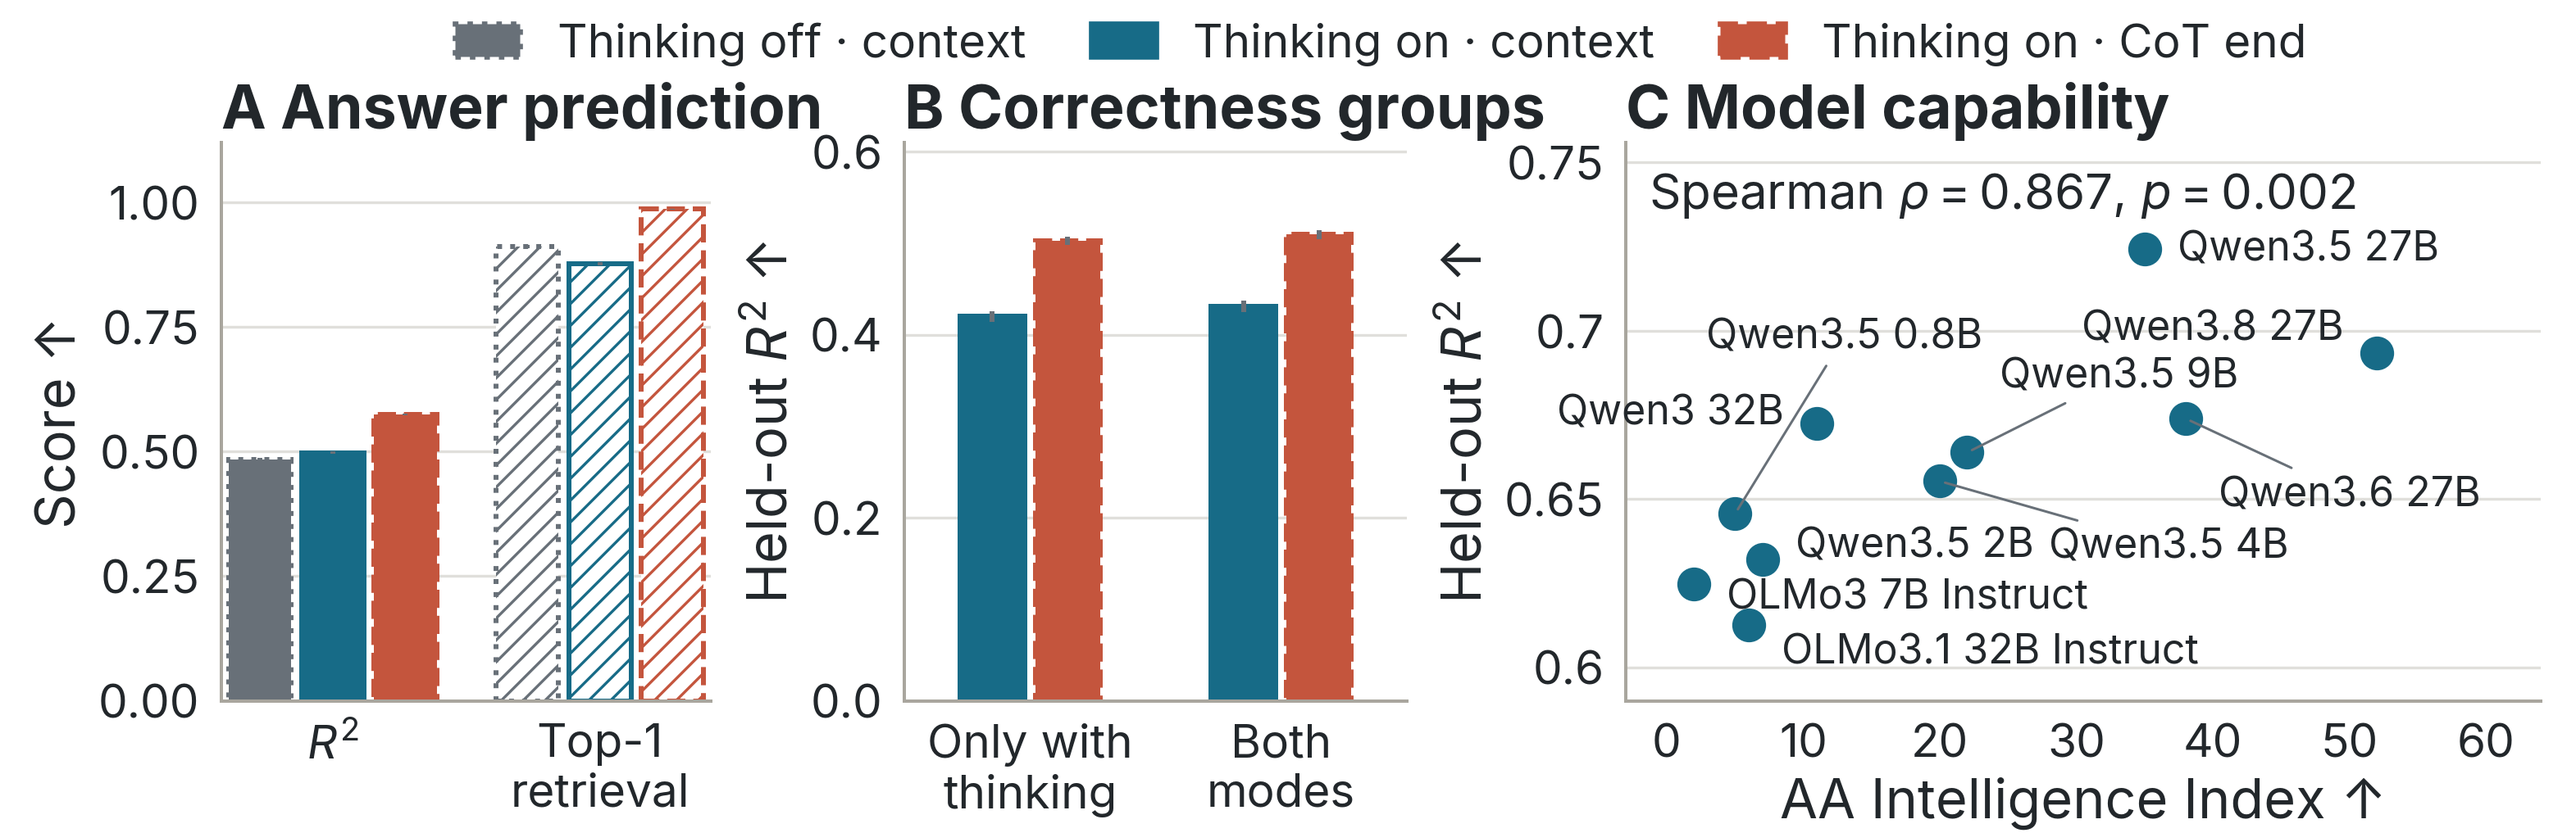
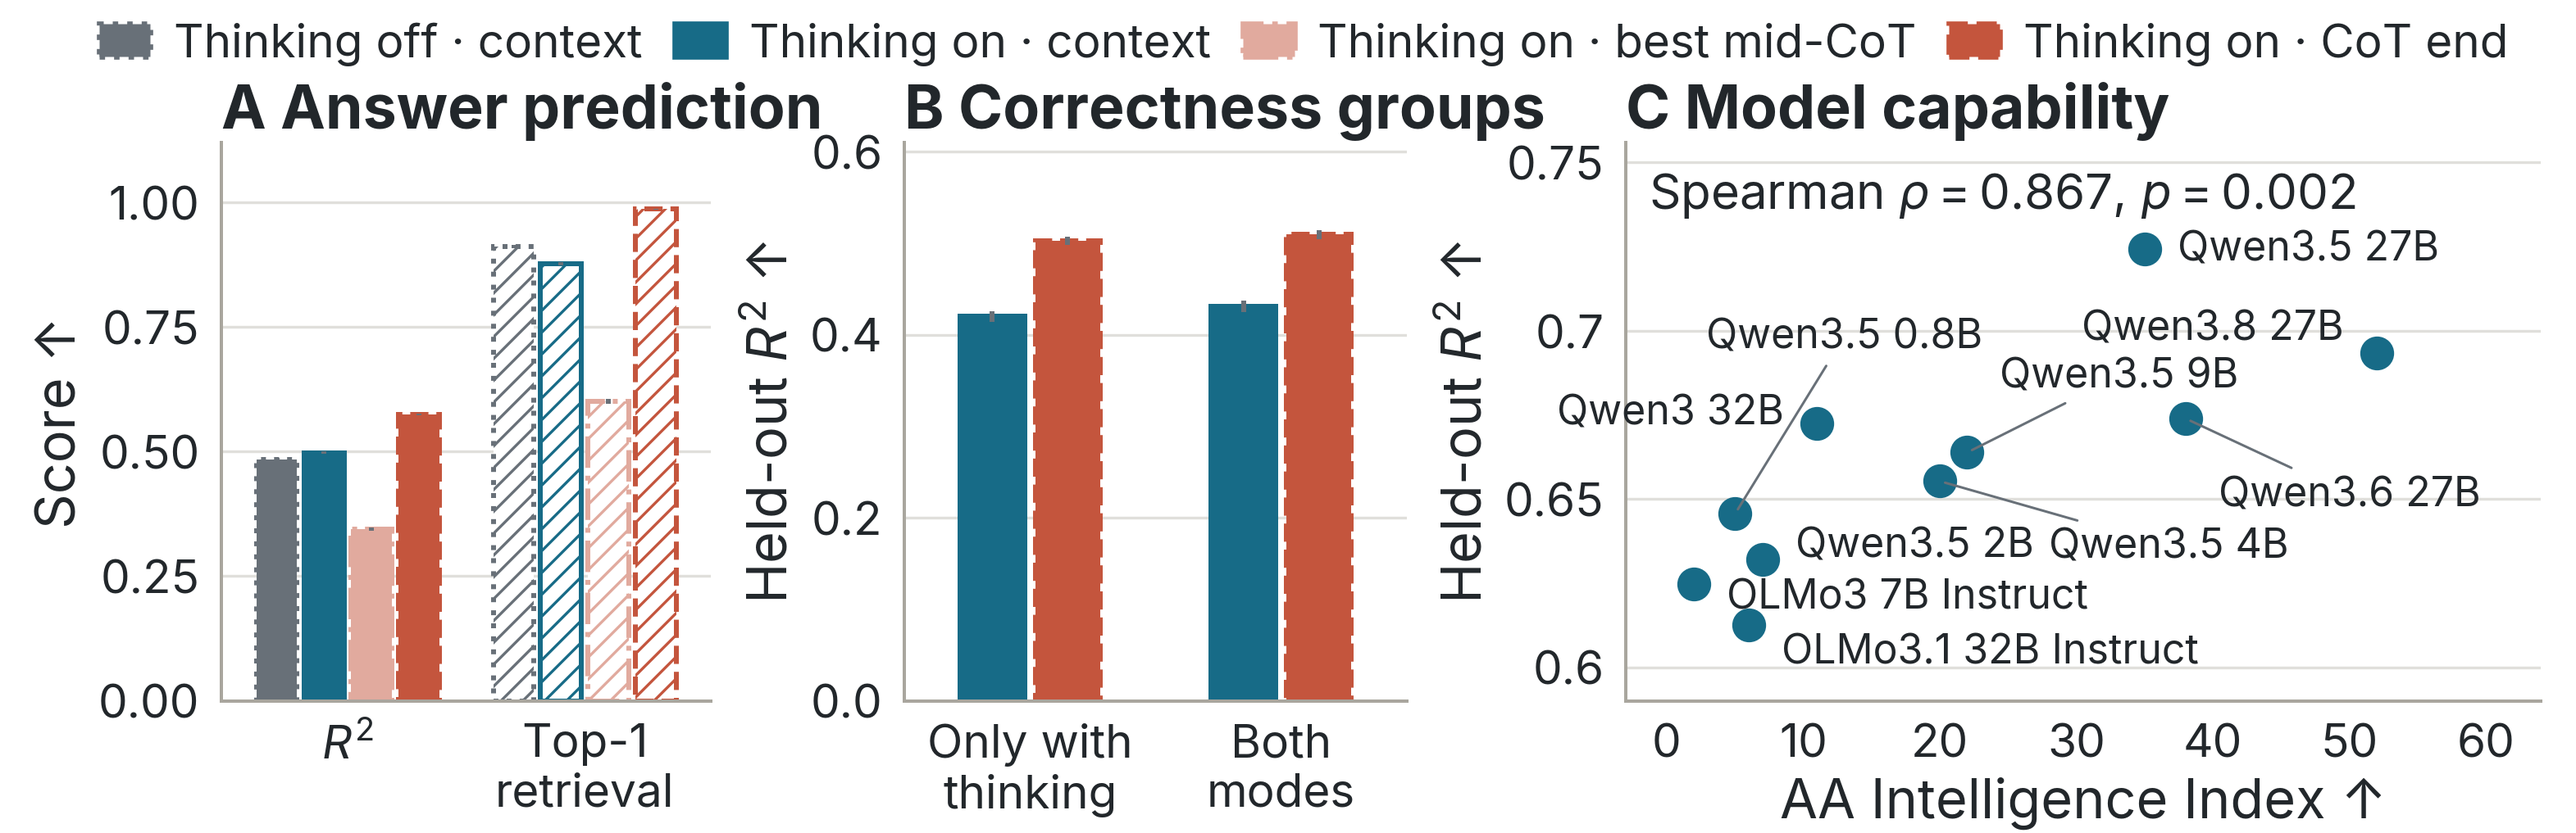
Figure 5 panel A: add the best mid-CoT state as a fourth bar
- figures/paper/c1_cot_capability_data.json: new condition p7_traj_t20 (t=0.2, the maximum of the nine interior positions on both metrics) with provenance from eval_results/issue_2546/allfit/p7_traj__a3.json; no refit.
- scripts/paper_fig_cot_capability.py: conditions keyed by cell, four bars in panel A, lighter tint of the CoT-end color for the mid-CoT state, legend spacing tightened to fit four entries.
- Re-rendered pdf/png/grayscale and meta.json.

Changed region(s): [[0.1871, 0.2439, 0.2807, 0.9754], [0.0312, 0.0, 0.9669, 0.0914], [0.0624, 0.4877, 0.156, 0.9145]]

diff --git a/scripts/paper_fig_cot_capability.py b/scripts/paper_fig_cot_capability.py
@@ -30,8 +30,10 @@ from explore_persona_space.analysis.c2a_plot_style import (
 ROOT = Path(__file__).resolve().parents[1]
 SOURCE = ROOT / "figures/paper/c1_cot_capability_data.json"
 STEM = ROOT / "figures/paper/c1_cot_capability"
-CONDITION_COLORS = [MUTED, ROLES["linear"].color, ROLES["nonlinear"].color]
-BORDERS = [":", "-", "--"]
+MID_COT = "#E1AA9E"  # 50% white tint of the CoT-end red: same family, earlier state
+CELL_ORDER = ["p7_Aoff", "p7_A", "p7_traj_t20", "p7_D"]
+CONDITION_COLORS = dict(zip(CELL_ORDER, [MUTED, ROLES["linear"].color, MID_COT, ROLES["nonlinear"].color], strict=True))
+BORDERS = dict(zip(CELL_ORDER, [":", "-", "-.", "--"], strict=True))
 OFFSETS = {
     "q35_0p8b": (40, 65),
     "q35_2b": (12, 5),
@@ -46,19 +48,19 @@ OFFSETS = {
 }
 
 
-def bar_with_interval(ax, x, value, bounds, width, condition, *, retrieval=False):
+def bar_with_interval(ax, x, value, bounds, width, cell, *, retrieval=False):
     """Draw a saved estimate and its endpoints, including non-enclosing intervals."""
     lo, hi = bounds
     if not np.isfinite([value, lo, hi]).all() or lo > hi:
         raise ValueError(f"Invalid estimate/interval: {value}, {bounds}")
-    color = CONDITION_COLORS[condition]
+    color = CONDITION_COLORS[cell]
     ax.bar(
         x,
         value,
         width=width * 0.86,
         facecolor="white" if retrieval else color,
         edgecolor=color,
-        linestyle=BORDERS[condition],
+        linestyle=BORDERS[cell],
         linewidth=1.8,
         hatch="///" if retrieval else None,
         zorder=2,
@@ -67,26 +69,26 @@ def bar_with_interval(ax, x, value, bounds, width, condition, *, retrieval=False
 
 
 def draw_prediction(ax, data):
-    """Preserve the all-question comparison and its two metrics in panel A."""
+    """Panel A: the three shipped conditions plus the best interior thinking-span state."""
     conditions = data["panels"]["A"]["conditions"]
-    assert [row["cell"] for row in conditions] == ["p7_Aoff", "p7_A", "p7_D"]
+    assert [row["cell"] for row in conditions] == CELL_ORDER
     assert data["panels"]["A"]["n_evaluated"] == 33810
-    width = 0.34
+    width = 0.27
     for j, key in enumerate(["r2_corpus", "acc1"]):
         for i, row in enumerate(conditions):
             scores = row["metrics"]
             assert scores["n"] == 33810
             bar_with_interval(
                 ax,
-                j * 1.25 + (i - 1) * width,
+                j * 1.35 + (i - 1.5) * width,
                 scores[key],
                 scores[f"{key}_ci"],
                 width,
-                i,
+                row["cell"],
                 retrieval=j == 1,
             )
-    ax.set_xticks([0, 1.25], [r"$R^2$", "Top-1\nretrieval"])
-    ax.set_xlim(-0.52, 1.77)
+    ax.set_xticks([0, 1.35], [r"$R^2$", "Top-1\nretrieval"])
+    ax.set_xlim(-0.72, 2.07)
     ax.set_ylim(0, 1.12)
     ax.set_yticks([0, 0.25, 0.5, 0.75, 1.0])
     ax.set_ylabel(better_label("Score"))
@@ -99,6 +101,7 @@ def draw_correctness(ax, data):
     pooled = data["panels"]["B"]["readouts"]
     counts = {"necessary": 4522, "both_correct": 17693}
     width = 0.30
+    readout_cells = {"context": "p7_A", "end_of_thought": "p7_D"}
     for i, readout in enumerate(["context", "end_of_thought"]):
         for j, (group, count) in enumerate(counts.items()):
             row = pooled[readout][group]
@@ -111,7 +114,7 @@ def draw_correctness(ax, data):
                 row["r2_corpus_mean"],
                 row["r2_corpus_mean_ci"],
                 width,
-                i + 1,
+                readout_cells[readout],
             )
     ax.set_xticks([0, 1], ["Only with\nthinking", "Both\nmodes"])
     ax.set_xlim(-0.5, 1.5)
@@ -193,18 +196,17 @@ def main():
                 linewidth=2,
                 label=row["label"],
             )
-            for row, color, border in zip(
-                cot["panels"]["A"]["conditions"],
-                CONDITION_COLORS,
-                BORDERS,
-                strict=True,
+            for row, color, border in (
+                (row, CONDITION_COLORS[row["cell"]], BORDERS[row["cell"]])
+                for row in cot["panels"]["A"]["conditions"]
             )
         ],
         loc="upper center",
-        bbox_to_anchor=(0.53, 1.0),
-        ncol=3,
-        handlelength=1.4,
-        columnspacing=1.4,
+        bbox_to_anchor=(0.5, 1.0),
+        ncol=4,
+        handlelength=1.1,
+        columnspacing=0.7,
+        handletextpad=0.5,
     )
     draw_prediction(axes[0], cot)
     draw_correctness(axes[1], cot)
@@ -226,7 +228,9 @@ def main():
         "changes": (
             "Single-row layout with one-line panel headings and tighter vertical spacing. "
             "Panel C uses AA Intelligence Index, expanded in the caption. "
-            "All estimates, intervals, model labels, and font sizes preserved."
+            "All estimates, intervals, model labels, and font sizes preserved. "
+            "2026-09-14: panel A gains a fourth bar, the best interior thinking-span state "
+            "(t=0.2, cell p7_traj_t20 from p7_traj__a3.json); no map refit."
         ),
         "maps_refit": False,
         "render": exported["record"],

diff --git a/docs/paper_context_answer_map/ai_use_log.md b/docs/paper_context_answer_map/ai_use_log.md
@@ -104,3 +104,4 @@ programmatically, never generated from model memory.
 | 2026-09-11 | Codex shortened the merged CoT/capability figure at Thomas's request by reducing panel heights and vertical gaps. [Overleaf](https://www.overleaf.com/project/6a59c927290f8b8b5eee0055), 86f82acce86b80707fd76e3c2f98b858711b6abd. | Exported height decreased from 9.920 to 7.645 authoring inches (22.9%) with the width, font sizes, plotted values, and intervals preserved. Label/header overlap checks and Ruff passed; the compiled manuscript layout was inspected. The existing unrelated appendix reference warning remains. The fast-forward Overleaf push was verified. |
 | 2026-09-11 | Codex placed all three CoT/capability panels side by side after Thomas clarified the intended layout. [Overleaf](https://www.overleaf.com/project/6a59c927290f8b8b5eee0055), 21cf71728954d499baf8bcb8b75166b247cee755. | The aligned single-row figure retains every plotted value, interval, and model name. Numeric bar labels were omitted to fit the narrower panels; model labels use smaller text and leader lines. Source equality, label/point overlap checks, Ruff, and manuscript compilation passed. The page was visually inspected; concurrent author edits were preserved, and the fast-forward Overleaf push was verified. |
 | 2026-09-11 | Codex shortened Figure 5 with single-line panel headings, tighter vertical spacing, and an AA Intelligence Index axis label expanded in the caption. [Overleaf](https://www.overleaf.com/project/6a59c927290f8b8b5eee0055), 95e43de6f184078909796eba38ecb59683263990. | Exported height decreased from 5.335 to 4.241 authoring inches (20.5%) at unchanged width and font sizes. Plotted-source equality and Ruff passed. Color, grayscale, and the compiled manuscript page were visually inspected. The final manuscript has no undefined references or citations, and the fast-forward Overleaf push was verified. |
+| 2026-09-14 | Claude added a fourth panel-A bar to the CoT and capability figure: the best interior thinking-span state (t=0.2, from the committed p7_traj__a3.json summary, no refit), with a lighter tint of the CoT-end color and a tightened legend; the manuscript caption and the CoT result text reference the bar. |  |
